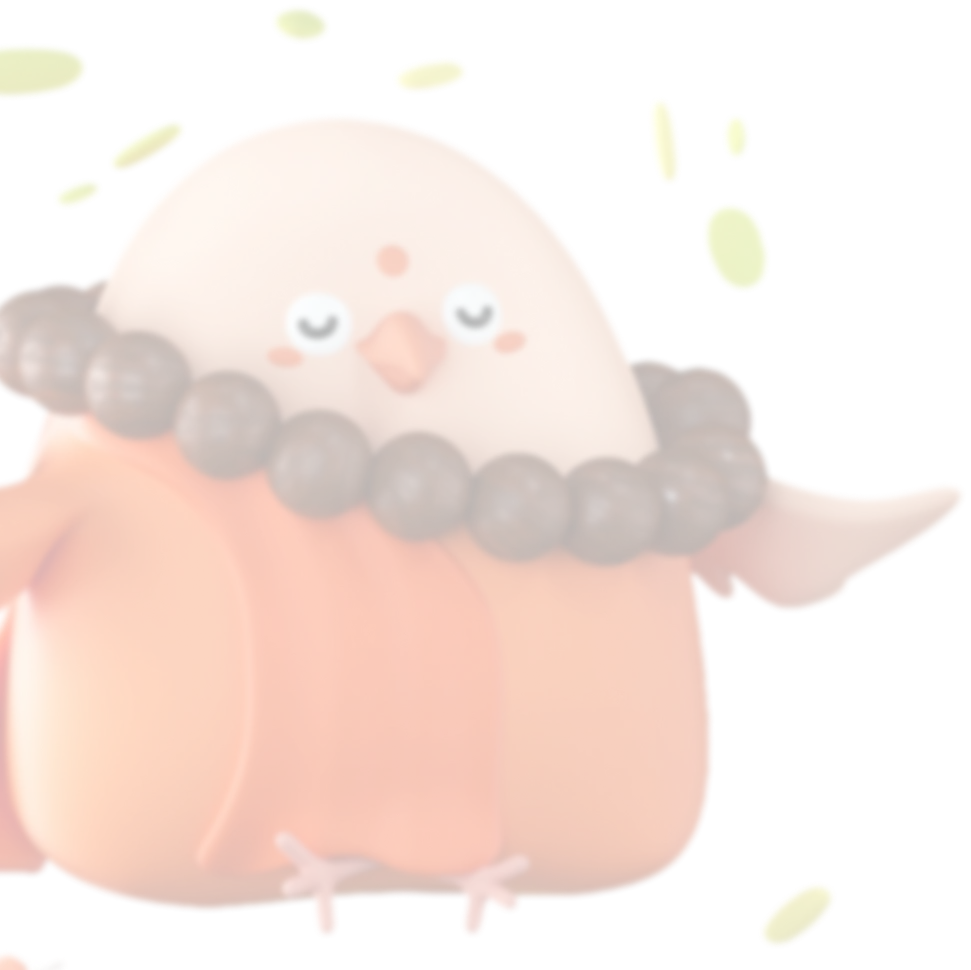
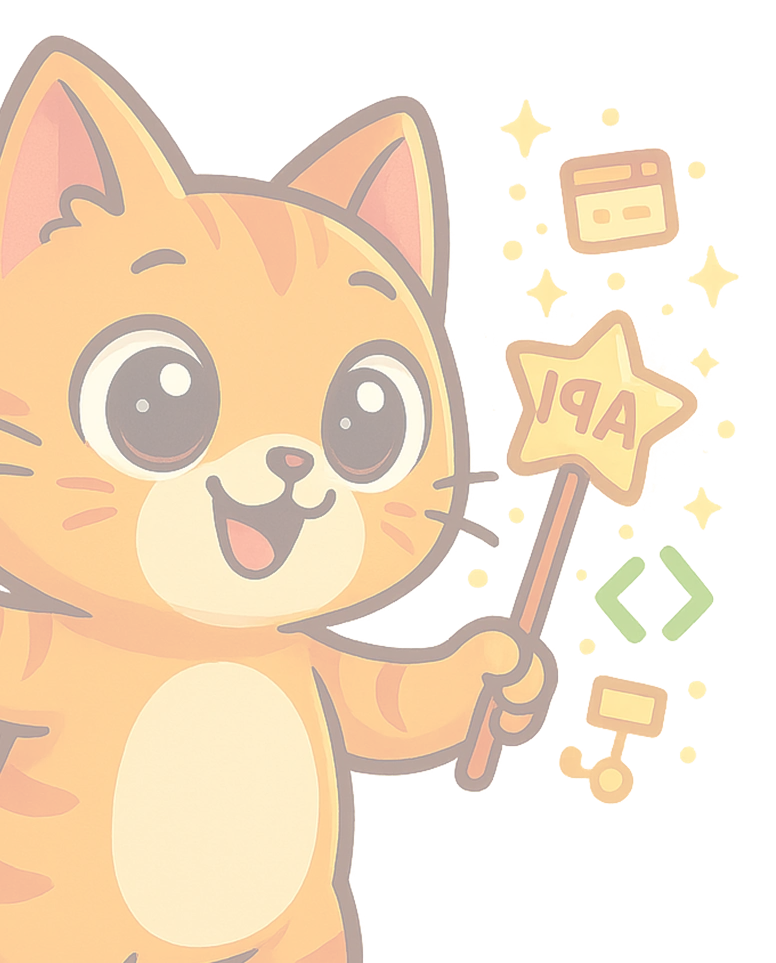
fix: replace image with a correct one

diff --git a/src/app/[locale]/(auth)/sign-up/styles.module.css b/src/app/[locale]/(auth)/sign-up/styles.module.css
@@ -8,6 +8,6 @@
   background-color: #ffd1b0;
   background-image: url('/assets/images/auth_background.webp');
   background-repeat: no-repeat;
-  background-position: left center;
-  background-size: 50% auto;
+  background-position: left bottom;
+  background-size: 45% auto;
 }